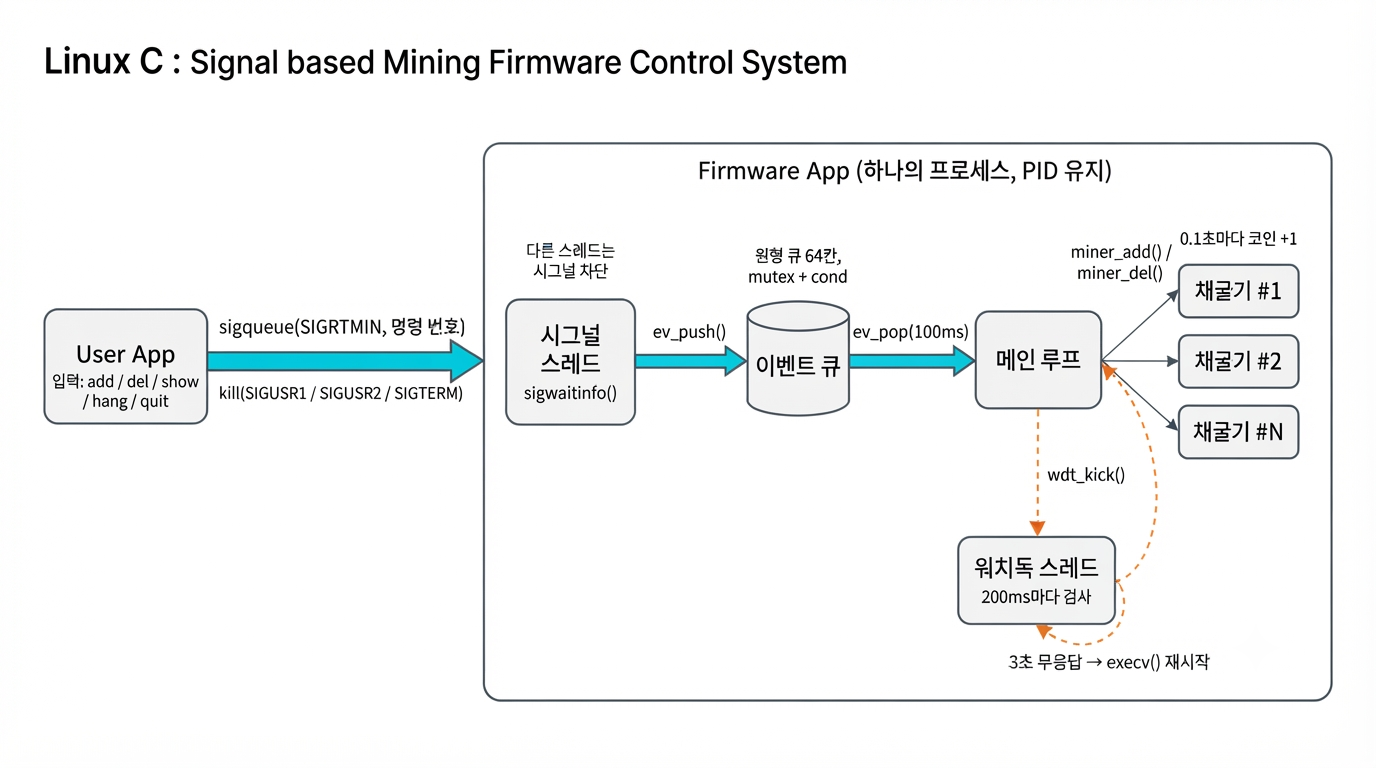
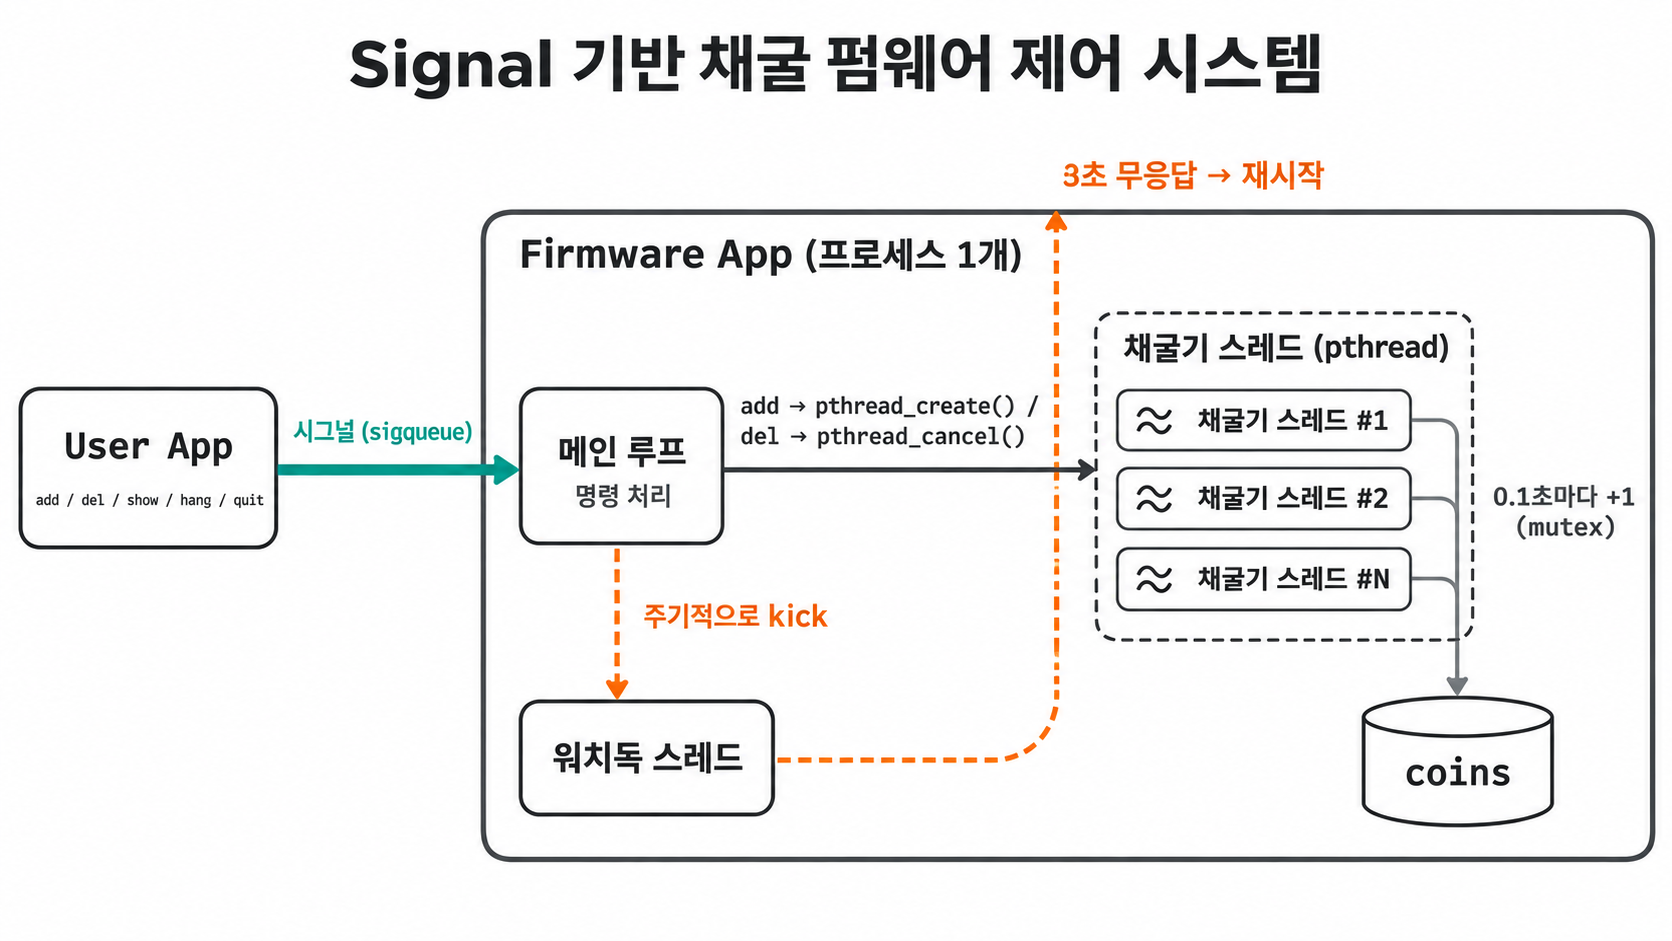
README 소개에 시연 GIF 추가, 구조도 간략화

diff --git a/README.md b/README.md
@@ -1,6 +1,8 @@
 # Signal 기반 채굴 펌웨어 제어 시스템
 
-User App에서 보내는 시그널(add/del/show 명령어)로 Firmware App안의 0.1초마다 coins++ 를 실행하는 스레드를 추가/제거/조회하고, 워치독 스레드가 펌웨어 메인 루프의 멈춤을 감지해 재시작하는 Linux C 프로젝트다.
+User App에서 보내는 시그널(add/del/show 명령어)로 Firmware App 안의 0.1초마다 coins++ 를 실행하는 스레드를 추가/제거/조회하고, 워치독 스레드가 펌웨어 메인 루프의 멈춤을 감지해 재시작하는 Linux C 프로젝트다.
+
+![시연](docs/images/demo.gif)
 
 - Firmware App(`src/firmware.c`): 채굴기 스레드를 큐로 관리하고, 시그널을 명령으로 받아 처리한다. 시그널은 핸들러 대신 전용 스레드가 `sigwaitinfo()`로 받는다.
 - User App(`src/user_app.c`): 펌웨어 PID를 인자로 받아 사용자 입력을 시그널로 바꿔 보낸다. 명령은 실시간 시그널 하나에 명령 번호를 실어 `sigqueue()`로 보낸다.
